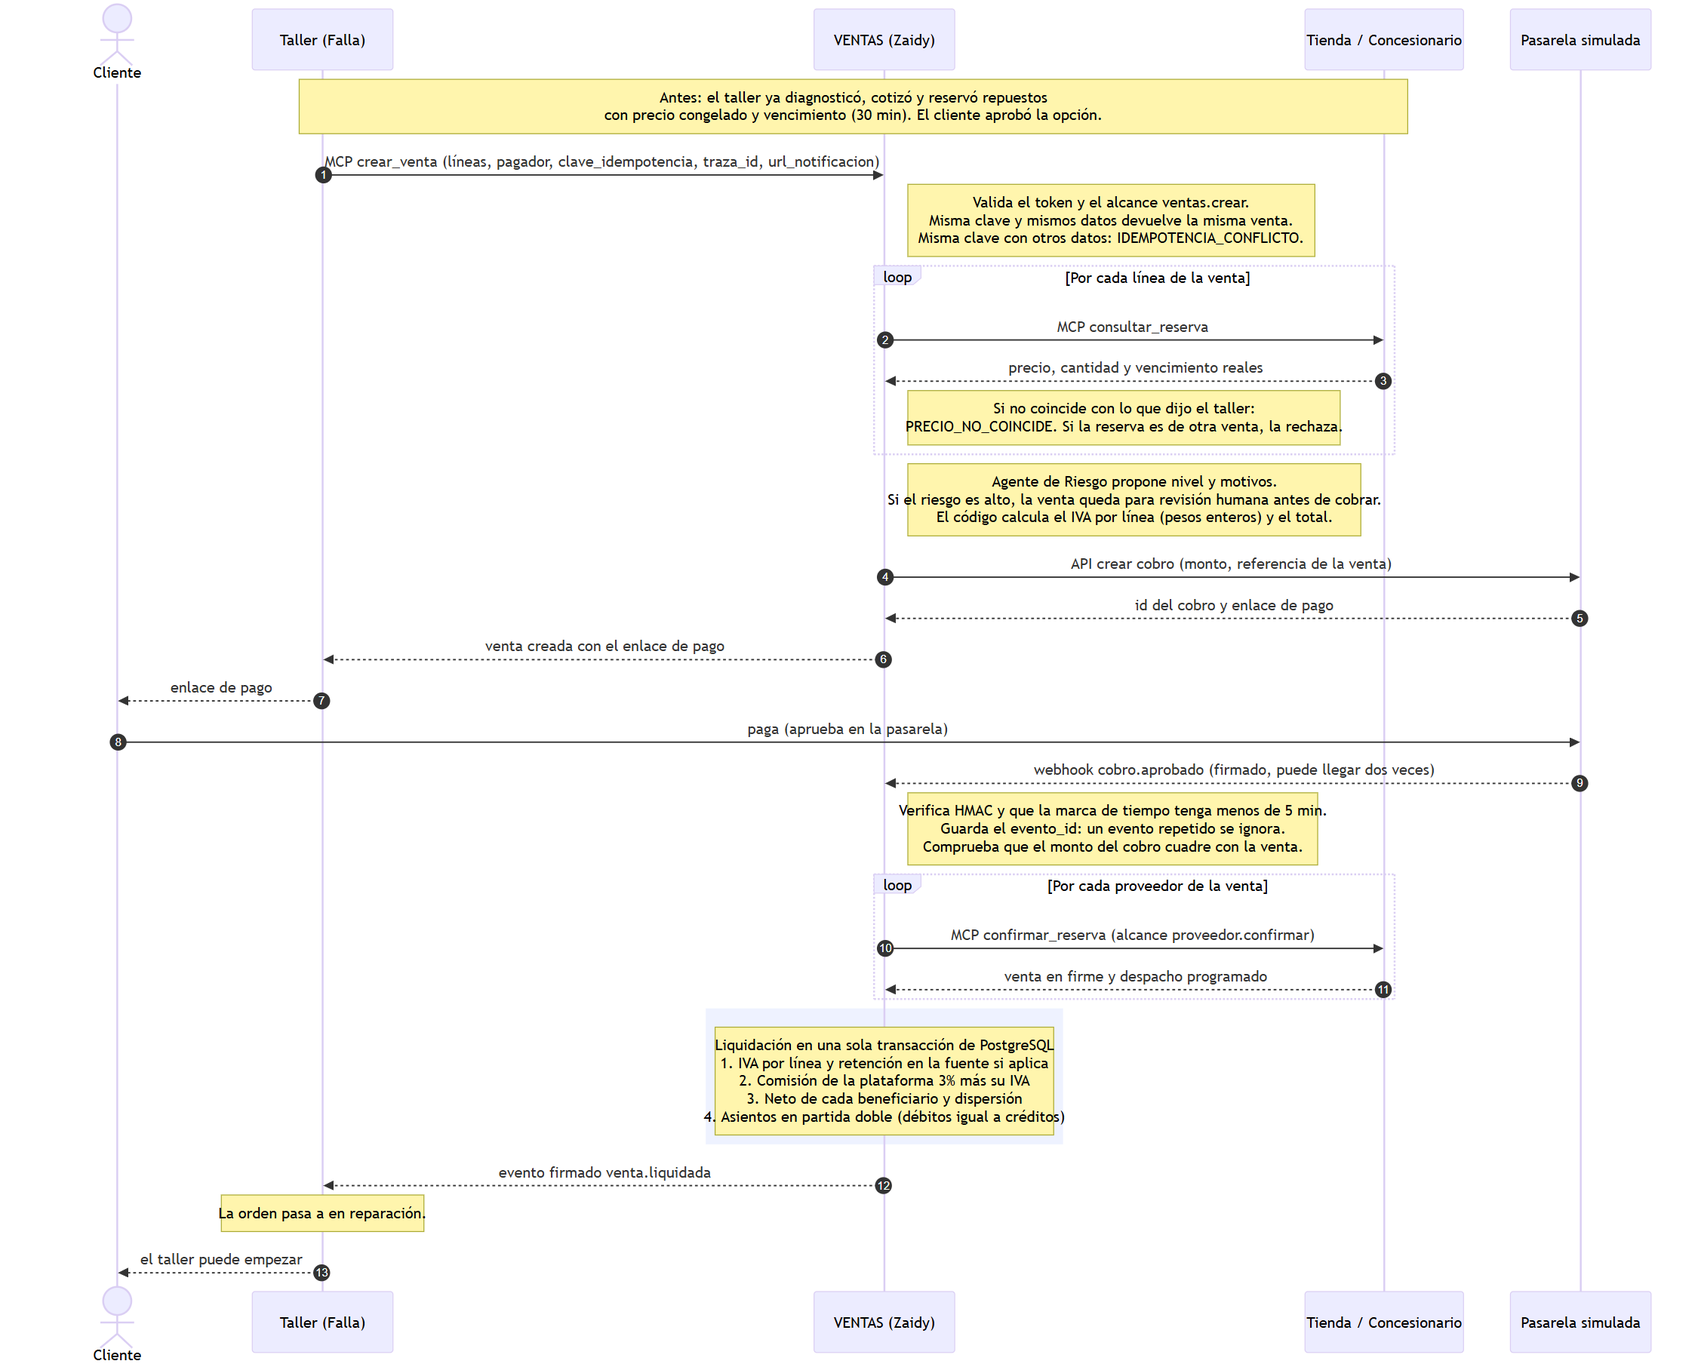
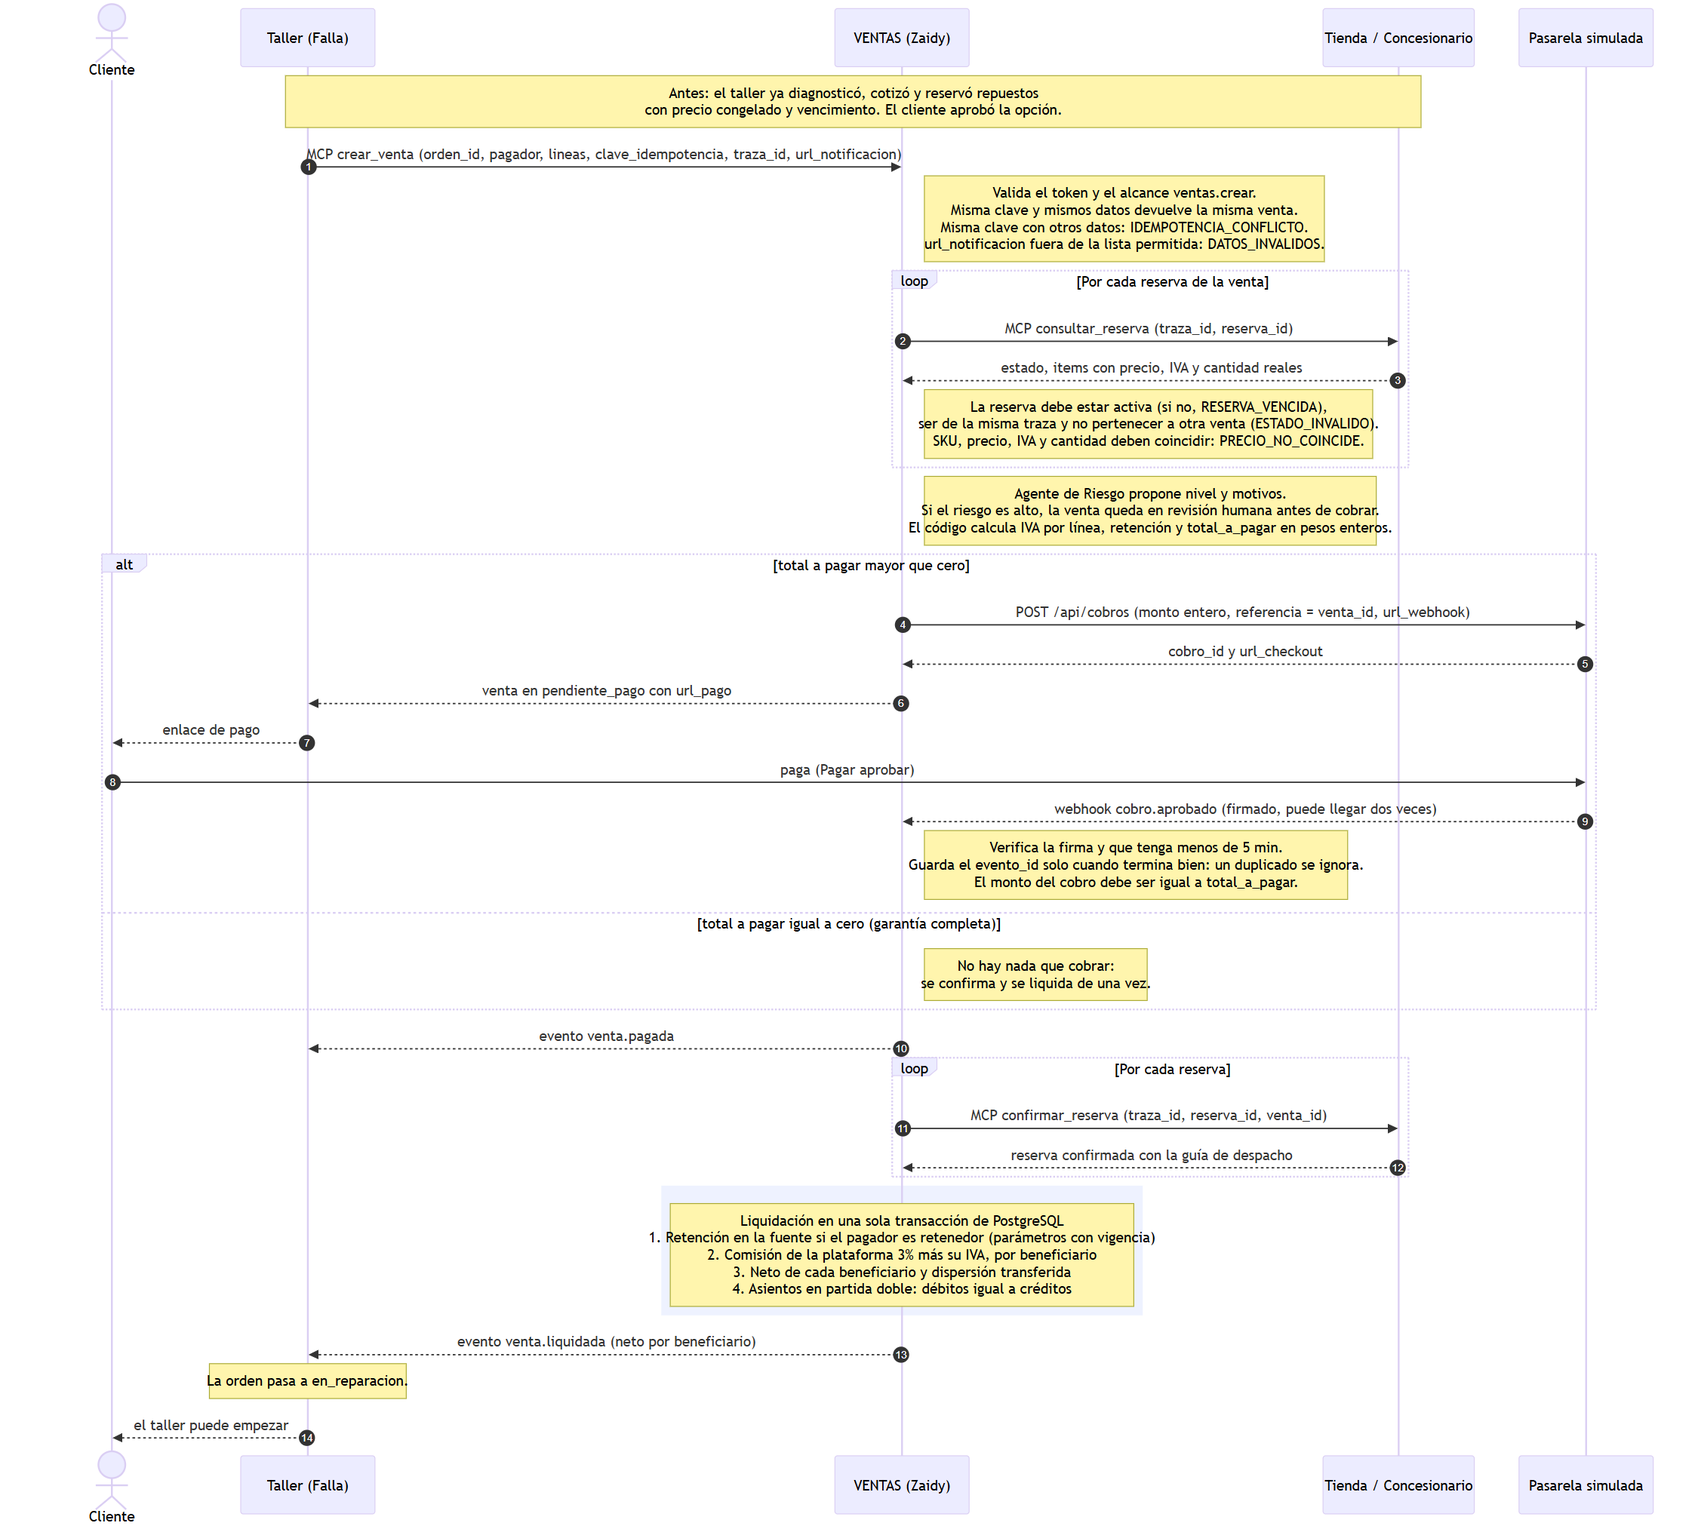
docs: diagrama y acuerdo de Ventas contrastados con el kit (estados, eventos y errores exactos); kit-apoyo fuera de git

diff --git a/docs/diagrama-secuencia-ventas.md b/docs/diagrama-secuencia-ventas.md
@@ -2,18 +2,21 @@
 
 Servicio del grupo de Zaidy dentro de MotorRed (Instructivo N.° 5). Ventas es el **orquestador comercial**: arma la venta, cobra, confirma a los proveedores, liquida, dispersa el dinero y lleva los asientos. Es el único que mueve dinero.
 
-Todo sale del Instructivo 5 (Figuras 1 y 2, Conceptos 2, 4 y 5). Los nombres de herramientas, alcances y eventos son los del contrato 1.0; el detalle exacto de campos y códigos de error está en el kit (`docs/contrato.md` y `contrato/REGLAS.md`) y hay que contrastarlo cuando lo tengamos.
+Contrastado con el kit `ecosistema-motor` (contrato 1.0): `contrato/REGLAS.md`, `docs/contrato.md`, `simuladores/ventas.mjs` y `simuladores/pasarela.mjs`. Los nombres de herramientas, alcances, estados, eventos y códigos de error son los del kit.
 
 ## Quién habla con quién
 
 | Origen | Destino | Cómo | Alcance / protección |
 |---|---|---|---|
-| Taller | Ventas | MCP `crear_venta`, `anular_venta`, `consultar_venta`, `generar_cobro`, `consultar_liquidacion` | Token OAuth con alcance `ventas.crear` (y los de consulta) |
-| Ventas | Tienda y Concesionario | MCP `consultar_reserva`, `confirmar_reserva`, `liberar_reserva` | `proveedor.confirmar` solo lo tiene Ventas |
-| Ventas | Pasarela | API: crear cobro y reembolso | Pasarela simulada |
-| Pasarela | Ventas | Webhook `POST /webhooks/pasarela` (`cobro.aprobado`) | HMAC-SHA256 con marca de tiempo (máx. 5 min) y `evento_id` |
-| Ventas | Taller | Evento firmado `venta.liquidada` | HMAC; solo a `NOTIFICACIONES_PERMITIDAS` |
-| Auditor | Todos | `GET /bitacora` | Cliente `auditor`, con `traza_id` |
+| Taller | Ventas | MCP `crear_venta`, `consultar_venta`, `generar_cobro`, `anular_venta`, `consultar_liquidacion` | Cliente `taller`, alcance `ventas.crear` |
+| App del cliente | Ventas | MCP `consultar_venta`, `generar_cobro`, `consultar_liquidacion` | Cliente `app`, alcance `ventas.consultar` |
+| Ventas | Tienda y Concesionario | MCP `consultar_reserva`, `confirmar_reserva`, `liberar_reserva` | Cliente `ventas`, alcance `proveedor.confirmar` |
+| Ventas | Pasarela | `POST /api/cobros` y `POST /api/cobros/:id/reembolso` | Llave de API (`Authorization: Bearer`) |
+| Pasarela | Ventas | Webhook `POST /webhooks/pasarela` (`cobro.aprobado`, `cobro.rechazado`, `cobro.reembolsado`) | Firma `X-Pasarela-Firma`, máximo 5 min, idempotente por `evento_id` |
+| Ventas | Taller | `POST /eventos`: `venta.pagada`, `venta.liquidada`, `venta.pago_rechazado`, `venta.reembolsada` | Firma `X-Firma`; solo a `NOTIFICACIONES_PERMITIDAS` |
+| Auditor | Todos | `GET /bitacora?traza_id=` | Alcance `auditoria` |
+
+Estados de una venta: `pendiente_pago`, `pago_rechazado`, `pagada`, `liquidada`, `reembolsada`, `anulada` y `en_revision`.
 
 ## 1. Camino feliz: de la venta a la liquidación
 
@@ -26,41 +29,48 @@ sequenceDiagram
     participant P as Tienda / Concesionario
     participant G as Pasarela simulada
 
-    Note over T,P: Antes: el taller ya diagnosticó, cotizó y reservó repuestos<br/>con precio congelado y vencimiento (30 min). El cliente aprobó la opción.
+    Note over T,P: Antes: el taller ya diagnosticó, cotizó y reservó repuestos<br/>con precio congelado y vencimiento. El cliente aprobó la opción.
 
-    T->>V: MCP crear_venta (líneas, pagador, clave_idempotencia, traza_id, url_notificacion)
-    Note right of V: Valida el token y el alcance ventas.crear.<br/>Misma clave y mismos datos devuelve la misma venta.<br/>Misma clave con otros datos: IDEMPOTENCIA_CONFLICTO.
+    T->>V: MCP crear_venta (orden_id, pagador, lineas, clave_idempotencia, traza_id, url_notificacion)
+    Note right of V: Valida el token y el alcance ventas.crear.<br/>Misma clave y mismos datos devuelve la misma venta.<br/>Misma clave con otros datos: IDEMPOTENCIA_CONFLICTO.<br/>url_notificacion fuera de la lista permitida: DATOS_INVALIDOS.
 
-    loop Por cada línea de la venta
-        V->>P: MCP consultar_reserva
-        P-->>V: precio, cantidad y vencimiento reales
-        Note right of V: Si no coincide con lo que dijo el taller:<br/>PRECIO_NO_COINCIDE. Si la reserva es de otra venta, la rechaza.
+    loop Por cada reserva de la venta
+        V->>P: MCP consultar_reserva (traza_id, reserva_id)
+        P-->>V: estado, items con precio, IVA y cantidad reales
+        Note right of V: La reserva debe estar activa (si no, RESERVA_VENCIDA),<br/>ser de la misma traza y no pertenecer a otra venta (ESTADO_INVALIDO).<br/>SKU, precio, IVA y cantidad deben coincidir: PRECIO_NO_COINCIDE.
     end
 
-    Note right of V: Agente de Riesgo propone nivel y motivos.<br/>Si el riesgo es alto, la venta queda para revisión humana antes de cobrar.<br/>El código calcula el IVA por línea (pesos enteros) y el total.
+    Note right of V: Agente de Riesgo propone nivel y motivos.<br/>Si el riesgo es alto, la venta queda en revisión humana antes de cobrar.<br/>El código calcula IVA por línea, retención y total_a_pagar en pesos enteros.
 
-    V->>G: API crear cobro (monto, referencia de la venta)
-    G-->>V: id del cobro y enlace de pago
-    V-->>T: venta creada con el enlace de pago
-    T-->>C: enlace de pago
+    alt total a pagar mayor que cero
+        V->>G: POST /api/cobros (monto entero, referencia = venta_id, url_webhook)
+        G-->>V: cobro_id y url_checkout
+        V-->>T: venta en pendiente_pago con url_pago
+        T-->>C: enlace de pago
+        C->>G: paga (Pagar aprobar)
+        G-->>V: webhook cobro.aprobado (firmado, puede llegar dos veces)
+        Note right of V: Verifica la firma y que tenga menos de 5 min.<br/>Guarda el evento_id solo cuando termina bien: un duplicado se ignora.<br/>El monto del cobro debe ser igual a total_a_pagar.
+    else total a pagar igual a cero (garantía completa)
+        Note right of V: No hay nada que cobrar:<br/>se confirma y se liquida de una vez.
+    end
 
-    C->>G: paga (aprueba en la pasarela)
-    G-->>V: webhook cobro.aprobado (firmado, puede llegar dos veces)
-    Note right of V: Verifica HMAC y que la marca de tiempo tenga menos de 5 min.<br/>Guarda el evento_id: un evento repetido se ignora.<br/>Comprueba que el monto del cobro cuadre con la venta.
+    V-->>T: evento venta.pagada
 
-    loop Por cada proveedor de la venta
-        V->>P: MCP confirmar_reserva (alcance proveedor.confirmar)
-        P-->>V: venta en firme y despacho programado
+    loop Por cada reserva
+        V->>P: MCP confirmar_reserva (traza_id, reserva_id, venta_id)
+        P-->>V: reserva confirmada con la guía de despacho
     end
 
     rect rgb(238, 242, 255)
-    Note over V: Liquidación en una sola transacción de PostgreSQL<br/>1. IVA por línea y retención en la fuente si aplica<br/>2. Comisión de la plataforma 3% más su IVA<br/>3. Neto de cada beneficiario y dispersión<br/>4. Asientos en partida doble (débitos igual a créditos)
+    Note over V: Liquidación en una sola transacción de PostgreSQL<br/>1. Retención en la fuente si el pagador es retenedor (parámetros con vigencia)<br/>2. Comisión de la plataforma 3% más su IVA, por beneficiario<br/>3. Neto de cada beneficiario y dispersión transferida<br/>4. Asientos en partida doble: débitos igual a créditos
     end
 
-    V-->>T: evento firmado venta.liquidada
-    Note over T: La orden pasa a en reparación.
+    V-->>T: evento venta.liquidada (neto por beneficiario)
+    Note over T: La orden pasa a en_reparacion.
     T-->>C: el taller puede empezar
 ```
+
+Los eventos de una misma venta salen **en orden**: `venta.pagada` siempre antes que `venta.liquidada`.
 
 ## 2. Fallos y compensaciones
 
@@ -75,48 +85,54 @@ sequenceDiagram
 
     rect rgb(254, 242, 242)
     Note over C,G: A. Pago rechazado (escenario E3)
-    C->>G: intenta pagar
-    G-->>V: webhook de cobro rechazado
-    V-->>T: la venta sigue abierta, hace falta un nuevo cobro
+    C->>G: intenta pagar y es rechazado
+    G-->>V: webhook cobro.rechazado
+    Note right of V: La venta pasa a pago_rechazado.
+    V-->>T: evento venta.pago_rechazado
     T->>V: MCP generar_cobro
-    V->>G: API crear nuevo cobro
-    G-->>V: nuevo enlace de pago
-    V-->>T: enlace nuevo
+    Note right of V: Vuelve a verificar que las reservas sigan activas.
+    V->>G: POST /api/cobros (cobro nuevo)
+    G-->>V: nuevo cobro_id y url_checkout
+    V-->>T: venta en pendiente_pago con enlace nuevo
     C->>G: paga con éxito
     G-->>V: webhook cobro.aprobado
     Note over V: La venta se completa y se liquida una sola vez.
     end
 
     rect rgb(255, 247, 237)
-    Note over C,G: B. La reserva venció antes del pago: saga con compensación (escenario E4)
+    Note over C,G: B. Una reserva venció antes del pago: saga con compensación (escenario E4)
     G-->>V: webhook cobro.aprobado
+    V-->>T: evento venta.pagada
     V->>P: MCP confirmar_reserva
-    P-->>V: error: la reserva venció
-    Note right of V: Ventas no puede des-cobrar.<br/>Ejecuta la compensación en orden.
-    V->>P: MCP liberar_reserva (las demás reservas de la venta)
+    P-->>V: error RESERVA_VENCIDA
+    Note right of V: Ventas no puede des-cobrar.<br/>Compensa en orden y lo deja en la bitácora (saga_compensacion).
+    V->>P: MCP liberar_reserva (solo las reservas de esta venta)
     P-->>V: unidades devueltas al inventario
-    V->>G: API pedir reembolso
-    G-->>V: reembolso aprobado
-    V-->>T: evento firmado: venta compensada
-    Note over T: El taller cotiza de nuevo.
+    V->>G: POST /api/cobros/:id/reembolso
+    G-->>V: cobro reembolsado
+    V-->>T: evento venta.reembolsada
+    Note over T: La orden queda en requiere_nueva_cotizacion y el taller cotiza de nuevo.
+    Note right of V: Si el reembolso falla, la venta queda en_revision.
     end
 
     rect rgb(245, 243, 255)
     Note over C,G: C. Algo no cuadra: la baranda detiene el dinero
-    G-->>V: webhook con un monto distinto al de la venta
-    Note right of V: La saga no improvisa.<br/>La venta queda en_revision y no dispersa nada.<br/>Una persona revisa la bitácora con el traza_id.
+    G-->>V: webhook con un monto distinto a total_a_pagar
+    Note right of V: La saga no improvisa.<br/>La venta queda en_revision y no dispersa nada.<br/>Lo mismo si la liquidación no cuadra.<br/>Una persona revisa la bitácora con el traza_id.
     end
 
     rect rgb(240, 253, 244)
     Note over C,G: D. Ataques que Ventas rechaza (escenario E6)
     T->>V: crear_venta con un precio alterado
     V-->>T: PRECIO_NO_COINCIDE
+    T->>V: crear_venta con una reserva que ya es de otra venta
+    V-->>T: ESTADO_INVALIDO
     G-->>V: webhook con firma falsa o de hace más de 5 min
-    Note right of V: Se rechaza: no cambia ningún estado.
+    Note right of V: Se rechaza con 401 y no cambia ningún estado.
     T->>V: consultar_venta con la traza_id de otra orden
     V-->>T: NO_ENCONTRADO
     T->>V: crear_venta con url_notificacion externa
-    V-->>T: rechazada: destino fuera de NOTIFICACIONES_PERMITIDAS
+    V-->>T: DATOS_INVALIDOS
     end
 ```
 
@@ -134,7 +150,7 @@ sequenceDiagram
 
     Note over V,A: El agente propone, el código dispone.<br/>Ningún agente crea, cambia ni anula ventas o dispersiones.
 
-    V->>R: venta (montos, cliente nuevo, rechazos previos)
+    V->>R: venta (montos inusuales, cliente nuevo, rechazos previos)
     R-->>V: nivel de riesgo y motivos (JSON validado, plan B si falla)
     alt riesgo alto o el modelo no responde
         V->>H: venta en revisión humana antes de cobrar
@@ -152,6 +168,8 @@ sequenceDiagram
     A-->>V: explicación y cierre del día
     Note over A: Lee la liquidación que calculó el código, no calcula dinero.
 ```
+
+El simulador de referencia del kit **no trae** el agente de Riesgo ni los demás: son parte del trabajo del grupo (Trabajos 4 y 5 del instructivo).
 
 ## Imágenes
 

diff --git a/docs/acuerdo-ventas-con-otros-grupos.md b/docs/acuerdo-ventas-con-otros-grupos.md
@@ -1,57 +1,56 @@
 # Ventas (grupo de Zaidy): qué esperamos de ustedes y qué reciben de nosotros
 
-Somos el único servicio que **cobra, reparte y lleva la contabilidad**. Esta hoja resume en una página lo que necesitamos de cada grupo y lo que ustedes reciben de nosotros. Todo sale del Instructivo 5 y del contrato 1.0; si algo del kit dice otra cosa, **manda el kit**. El diagrama completo está en [diagrama-secuencia-ventas.md](diagrama-secuencia-ventas.md).
+Somos el único servicio que **cobra, reparte y lleva la contabilidad**. Esta hoja resume en una página lo que necesitamos de cada grupo y lo que ustedes reciben de nosotros. Todo sale del contrato 1.0 del kit (`contrato/REGLAS.md` y `docs/contrato.md`); si algo no coincide, **manda el kit**. El diagrama completo está en [diagrama-secuencia-ventas.md](diagrama-secuencia-ventas.md).
 
 ## Para todos
 
-- **Credenciales:** cada cliente tiene su `client_id` y secreto; pedimos token en `POST /oauth/token` y lo usamos con sus alcances. Los secretos nos los pasan por un canal privado, no por el chat.
-- **`traza_id`** en cada llamada, para reconstruir la historia de la orden en la bitácora.
+- **Credenciales:** cada cliente tiene su `client_id` y secreto; pedimos token en `POST /oauth/token` (`client_credentials`, 3600 s) y lo usamos con sus alcances. Los secretos nos los pasan por un canal privado, no por el chat.
+- **`traza_id`** en cada llamada, para reconstruir la historia de la orden con `GET /bitacora`.
 - **`clave_idempotencia`** en lo que crea algo. Misma clave y mismos datos: misma respuesta. Misma clave y otros datos: `IDEMPOTENCIA_CONFLICTO`.
-- **Errores** con los códigos del contrato (`{ error: { codigo, mensaje, reintentable } }`), nunca texto libre.
-- **Dinero en pesos enteros.** Nada de decimales.
+- **Errores** del contrato: `{ error: { codigo, mensaje, reintentable } }` con `isError: true`.
+- **Dinero en pesos enteros.** El IVA se calcula por línea y se redondea al peso.
 
 ## Taller (Falla)
 
 **Esperamos que ustedes:**
-1. Llamen `crear_venta` con las líneas (cada una ligada a su reserva), el pagador o pagadores, la `clave_idempotencia`, la `traza_id` y la `url_notificacion`.
-2. Tomen **precio e IVA de la reserva**, no de la oferta. Si no coinciden, respondemos `PRECIO_NO_COINCIDE`.
-3. Dejen su dirección en nuestra lista de destinos permitidos (por ejemplo `http://taller:4101`). Si no, rechazamos la venta.
-4. Publiquen `POST /eventos` y **verifiquen la firma HMAC** de lo que les enviamos.
-5. Si un pago se rechaza, llamen `generar_cobro` para obtener un cobro nuevo.
+1. Llamen `crear_venta` con `orden_id`, `pagador` (`tipo`, `documento`, `nombre`, `retenedor`, `autorizacion`), `lineas`, `clave_idempotencia`, `traza_id` y `url_notificacion`.
+2. Manden en cada línea de repuesto el `reserva_id`, el SKU en `referencia`, y el **precio e IVA tal como quedaron en la reserva**. Si no coinciden: `PRECIO_NO_COINCIDE`.
+3. Facturen **solo servicios** (sin reserva) con beneficiario `taller`. Los repuestos los factura su proveedor.
+4. Dejen su dirección en `NOTIFICACIONES_PERMITIDAS` (por ejemplo `http://taller:4101`); si no, rechazamos la venta.
+5. Publiquen `POST /eventos` y **verifiquen la firma `X-Firma`**.
+6. Si un pago se rechaza, llamen `generar_cobro` para obtener un cobro nuevo.
+7. Con garantía: la venta del concesionario lleva `pagador.tipo = concesionario`, `pagador.autorizacion = GAR-…` y los repuestos con concepto `garantia` y precio 0.
 
 **Ustedes reciben de nosotros:**
-- La venta creada con el **enlace de pago** para el cliente.
-- `consultar_venta`, `consultar_liquidacion` y `anular_venta`.
-- El evento firmado **`venta.liquidada`** cuando el dinero queda repartido: ahí la orden pasa a reparación.
-- Un evento firmado si hay **compensación** (reserva vencida y reembolso): ahí deben cotizar de nuevo.
+- La venta en `pendiente_pago` con `url_pago` para el cliente.
+- `consultar_venta`, `consultar_liquidacion`, `generar_cobro` y `anular_venta` (solo si no está pagada).
+- Eventos firmados, **en este orden por venta**: `venta.pagada` y luego `venta.liquidada`; o `venta.pago_rechazado`; o `venta.reembolsada` (compensación: deben cotizar de nuevo).
 
 ## Tienda (José) y Concesionario (Emerson)
 
 Las dos publican las mismas herramientas de proveedor.
 
 **Esperamos que ustedes:**
-1. `consultar_reserva`: devuelvan el **precio congelado, la cantidad, el vencimiento y la orden** a la que pertenece. Con eso verificamos cada línea antes de cobrar.
-2. `confirmar_reserva`: la acepten **solo de Ventas** (alcance `proveedor.confirmar`), de forma idempotente, y programen el despacho.
-3. `liberar_reserva`: devuelvan las unidades al inventario. Ventas puede liberar incluso una reserva ya confirmada.
-4. Respondan con un **error claro cuando la reserva venció**, para que podamos compensar.
-5. Publiquen las rutas de laboratorio `/sandbox/vencer/:reserva_id` y `/sandbox/reabastecer` (solo con `SANDBOX=1`).
-6. **Concesionario:** es el único que entrega repuestos en **garantía**, con precio 0, reserva y número de autorización.
+1. `consultar_reserva` (alcance `proveedor.confirmar`): devuelvan `estado`, los `items` con `sku`, `cantidad`, `precio_unitario` e `iva_porcentaje`, y la `venta_id` si ya está confirmada. Con una `traza_id` distinta a la de la reserva: `NO_ENCONTRADO`.
+2. `confirmar_reserva`: la acepten **solo de Ventas**, de forma idempotente (repetida con la misma venta no cambia nada), y devuelvan la guía de despacho. Reserva vencida: `RESERVA_VENCIDA`; otro estado: `ESTADO_INVALIDO`.
+3. `liberar_reserva`: devuelvan las unidades al inventario. Una reserva confirmada **solo la libera Ventas**.
+4. Publiquen `POST /sandbox/vencer/:reserva_id` y `POST /sandbox/reabastecer` (solo con `SANDBOX=1` y `X-Sandbox-Llave`).
+5. **Concesionario:** es el único que entrega repuestos en **garantía**, con precio 0 y número de autorización `GAR-…`.
 
 **Ustedes reciben de nosotros:**
-- Llamadas con token y alcance de Ventas, siempre con `traza_id`.
+- Llamadas con el token del cliente `ventas`, siempre con `traza_id`.
 - `confirmar_reserva` solo después de que el pago esté **aprobado y verificado**, nunca antes.
-- `liberar_reserva` de las demás reservas si la venta se compensa.
+- `liberar_reserva` de las reservas de la venta si hay que compensar.
 
 ## Qué NO hacemos
 
-- No cobramos antes de verificar las reservas contra ustedes.
+- No cobramos antes de verificar cada línea contra la reserva real.
 - No dispersamos dinero si algo no cuadra: la venta queda `en_revision` hasta que una persona la revise.
 - Ningún agente de IA nuestro crea, cambia ni anula ventas: lo decide el código.
 
-## Por confirmar entre los cuatro (se resuelve con el kit)
+## Pendiente entre los cuatro
 
-- Nombre exacto del evento de compensación y los campos de cada evento.
-- Código exacto del error cuando una reserva venció.
-- Forma exacta de la `url_notificacion` y de los pagadores (cliente y concesionario en garantía).
+- Que los secretos de los clientes (`taller` → ventas, `ventas` → proveedores, `auditor`) se intercambien por un canal privado.
+- Acordar las direcciones reales de cada servicio para la integración (no `localhost`).
 
 Contacto técnico de Ventas: Zaidy.
